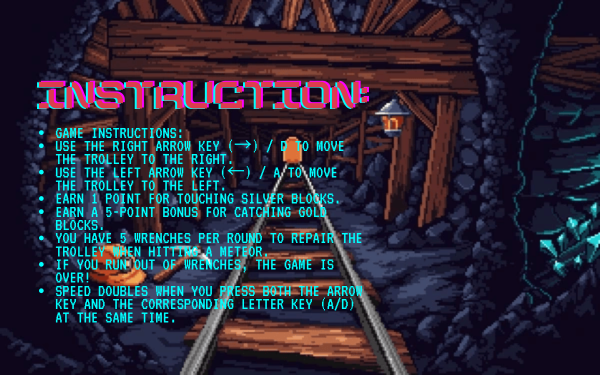
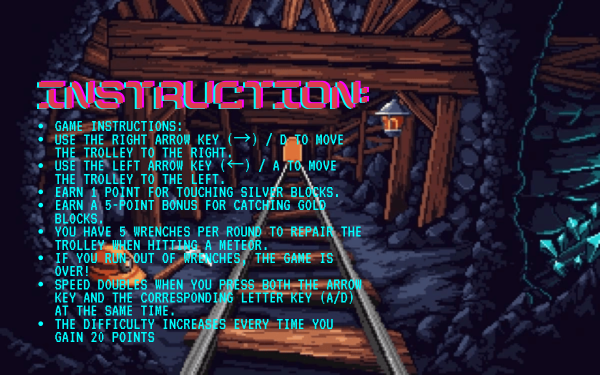
Thêm tính năng độ khó tăng dần mỗi lần có thêm 20 điểm

Changed region(s): [[0.06, 0.3227, 0.6, 0.9093]]

diff --git a/Learning/main.cpp b/Learning/main.cpp
@@ -22,6 +22,7 @@ SDL_Texture* help_btn_texture;
 SDL_Texture* play_again_texture;
 SDL_Texture* pause_continue_texture;
 SDL_Texture* game_paused_texture;
+SDL_Texture* level_up_texture;
 
 SDL_Rect highscore_rect;
 SDL_Rect menu_background_rect;
@@ -33,6 +34,7 @@ SDL_Rect play_btn_rect;
 SDL_Rect help_btn_rect;
 SDL_Rect pause_continue_rect;
 SDL_Rect game_paused_rect;
+SDL_Rect level_up_rect;
 SDL_Rect render_rect_play;
 SDL_Rect render_rect_help;
 SDL_Rect render_rect_pause_continue; //= {0, 0, 22, 34};
@@ -60,7 +62,17 @@ blood_object blood;
 int your_score = 0;
 int high_score = 0;
 int MAX_SCORE = 0;
+
+int white_ene_spam_rate = 30;
+int yellow_ene_spam_rate = 100;
+int boost_ene_spam_rate = 100;
 int BLOOD_REMAIN = 5;
+
+int yellow_enemies_gen_num = 2;
+int white_enemies_gen_num = 2;
+int boost_enemies_gen_num = 2;
+
+
 bool pause_screen = false;
 
 Button play_btn;
@@ -68,6 +80,8 @@ Button help_btn;
 Button pause_continue_btn;
 
 Uint32 handle_bonus_delay_time;
+Uint32 handle_level_up_delay_time;
+
 using namespace std;
 
 int main(int argc, char* argv[]){
@@ -183,21 +197,35 @@ int main(int argc, char* argv[]){
                     player.update();
                     SDL_RenderCopyEx(gRenderer, player.objectTexture, NULL, &player.objectRect, 0, NULL, player.flip);
                     //Render white enemies
-                    if (getRandomNum(0, 30) == 0){
-                        white_ene.gen_new_enemies(2, example_white_enemies, gRenderer, WHITE_ENE_PATH);
+                if (getRandomNum(0, white_ene_spam_rate) == 0){
+                        white_ene.gen_new_enemies(white_enemies_gen_num, example_white_enemies, gRenderer, WHITE_ENE_PATH);
                     }
                     if (white_ene.handle_white_enemies(player) == 1){
                         your_score += 1;
+                        if (your_score % 20 == 0 && your_score!=0){
+                            level_up_animation();
+                            handle_level_up_delay_time = SDL_GetTicks();
+                        }
+//                        if (your_score == 20 * level_up_score_handle){
+//                            level_up_animation();
+//                            handle_level_up_delay_time = SDL_GetTicks();
+//                        }
+                        
+                        
                     }
-                    
                     white_ene.render(example_white_enemies.objectTexture, gRenderer, WHITE_ENE_PATH);
                     //Render boost enemies
-                    if (getRandomNum(0, 100) == 0){
-                        boost_ene.gen_new_enemies(3, example_boost_enemies, gRenderer, BOOST_ENE_PATH);
+                if (getRandomNum(0, boost_ene_spam_rate) == 0){
+                        boost_ene.gen_new_enemies(boost_enemies_gen_num, example_boost_enemies, gRenderer, BOOST_ENE_PATH);
                     }
                     if (boost_ene.handle_boost_enemies(player) == 1){
                         your_score += 5;
                         handle_bonus_delay_time = SDL_GetTicks();
+                        if ((your_score % 20 == 0 || (your_score - 1) % 20 == 0 || (your_score - 2) % 20 == 0 || (your_score - 3) % 20  == 0 || (your_score - 4) % 20 == 0) && your_score!=0){
+                            level_up_animation();
+                            handle_level_up_delay_time = SDL_GetTicks();
+                        }
+                        
                     }
                     if (handle_delay_action(handle_bonus_delay_time, 3) == true){
                         show_bonus_score(player.objectRect.x, player.objectRect.y);
@@ -205,8 +233,8 @@ int main(int argc, char* argv[]){
                     boost_ene.render(example_boost_enemies.objectTexture, gRenderer, BOOST_ENE_PATH);
                     
                     //Render yellow enemies
-                    if (getRandomNum(0, 100) == 0){
-                        yellow_ene.gen_new_enemies(2, example_yellow_enemies, gRenderer, YELLOW_ENE_PATH);
+                if (getRandomNum(0, yellow_ene_spam_rate) == 0){
+                        yellow_ene.gen_new_enemies(yellow_enemies_gen_num, example_yellow_enemies, gRenderer, YELLOW_ENE_PATH);
                     }
                     if (yellow_ene.handle_yellow_enemies(player) == 0){
                         yellow_ene.render(example_white_enemies.objectTexture, gRenderer, YELLOW_ENE_PATH);
@@ -218,8 +246,15 @@ int main(int argc, char* argv[]){
                         blood.draw_blood(gRenderer);
                         //Pause/ continue button
                         SDL_RenderCopy(gRenderer, pause_continue_texture, &render_rect_pause_continue, &pause_continue_rect);
+                        
+                        
+                        if (handle_delay_action(handle_level_up_delay_time, 8) == true){
+                            SDL_RenderCopy(gRenderer, level_up_texture , NULL, &level_up_rect);
+                        }
                         SDL_RenderPresent(gRenderer);
                         SDL_Delay(20);
+                        
+                        
                     }
                     else {
                         BLOOD_REMAIN -= 1;
@@ -229,14 +264,18 @@ int main(int argc, char* argv[]){
                             lose_animation();
                             show_lose_screen(running);
                             white_ene.reset();
-                            //yellow_ene.reset();
+                            //player posision reset
                             player.objectRect.x = PLAYER_INIT_X;
                             player.objectRect.y = PLAYER_INIT_Y;
+                            //level reset
+                            yellow_ene_spam_rate = 100;
+                            yellow_enemies_gen_num = 2;
                             high_score_num_texture = gLoader.load_text(Font_PATH, high_score_num(your_score, MAX_SCORE), gRenderer);
                             high_score_num_rect = gLoader.create_rect(high_score_num_texture, high_score_num_rect.x, high_score_num_rect.y);
                             your_score = 0;
                             BLOOD_REMAIN = 5;
                             blood.reset(gRenderer);
+                            
                         }
                     }
                 }
@@ -469,6 +508,7 @@ void close()
     SDL_DestroyTexture(play_btn_texture);
     SDL_DestroyTexture(help_btn_texture);
     SDL_DestroyTexture(pause_continue_texture);
+    SDL_DestroyTexture(level_up_texture);
     //Destroy window
     SDL_DestroyRenderer( gRenderer );
     SDL_DestroyWindow( gWindow );
@@ -527,7 +567,6 @@ void show_lose_screen(bool &play_Again){
 void show_bonus_score(int x, int y){
     bonus_score_rect = gLoader.create_rect(bonus_score_texture, x, y);
     SDL_RenderCopy(gRenderer, bonus_score_texture, NULL, &bonus_score_rect);
-    SDL_Delay(10);
 }
 void lose_animation(){
     while (player.objectRect.y < MAX_SCREEN_HEIGHT){
@@ -540,4 +579,17 @@ void lose_animation(){
         SDL_Delay(20);
     }
 }
+void level_up_animation(){
 
+    level_up_texture = gLoader.load_text(Font_PATH, "Level up !", gRenderer);
+    level_up_rect = gLoader.create_rect(level_up_texture, MAX_SCREEN_WEIGHT/2, MAX_SCREEN_HEIGHT/2);
+    
+    level_up_rect.x -= level_up_rect.w/2;
+    level_up_rect.y -= level_up_rect.h/2;
+        
+
+    yellow_enemies_gen_num += 5;
+    if (yellow_ene_spam_rate > 0){
+        yellow_ene_spam_rate -= 15;
+    }
+}

diff --git a/Learning/GameBase.h b/Learning/GameBase.h
@@ -18,7 +18,6 @@
 #include <vector>
 #include <fstream>
 
-
 const int MAX_SCREEN_WEIGHT = 800;
 const int MAX_SCREEN_HEIGHT = 600;
 const int HIGH_SCORE_X = MAX_SCREEN_HEIGHT - 90;
@@ -26,11 +25,12 @@ const int HIGH_SCORE_Y = 50;
 const int HIGH_YOUR_SCORE_SPACE = 50;
 const int PLAYER_INIT_X = MAX_SCREEN_WEIGHT/2 - 148/2;
 const int PLAYER_INIT_Y = MAX_SCREEN_HEIGHT - 145 - 158/2 + 5;
+
+//Handle speed
 const int PLAYER_SPEED = 5;
 const int ENEMIES_SPEED = 2;
-const int Enemies_gen_num = 5;
 const int BOOST_ENE_SPEED = 8;
-const int WAVE_SPEED = 3;
+
 // player_hight = 158, player_width = 148
 
 const char GameName[] = "Claim your efforts";

diff --git a/Learning/GameUltis.cpp b/Learning/GameUltis.cpp
@@ -43,9 +43,6 @@ std::string high_score_num(int new_high_score , int & MAX_SCORE){
         
         load_data.open("/Users/huylesmacbook/Library/Developer/Xcode/DerivedData/Learning-cdhyvssvqcagzrfkuqtdpvnnerph/Build/Products/Debug/Learning.app/Contents/Resources/saved_high_score.txt", std::ios::out);
         
-        if (!load_data.is_open()){
-            cout << "Failed to ext high score";
-        }
         load_data << to_string(new_high_score);
         MAX_SCORE = new_high_score;
     }

diff --git a/Learning/GameUltis.h b/Learning/GameUltis.h
@@ -27,5 +27,7 @@ void show_lose_screen(bool &play_Again);
 void show_bonus_score(int x, int y);
 bool handle_delay_action(Uint32 start_time, int time);
 void lose_animation();
+void level_up_animation();
 std::string high_score_num(int new_high_score, int & MAX_SCORE);
+
 #endif /* GameUltis_h */

diff --git a/Learning/GameObject.h b/Learning/GameObject.h
@@ -17,6 +17,7 @@
 static Mix_Chunk* lChunk = nullptr;
 static Mix_Chunk* lChunk_bonus = nullptr;
 
+
 struct object{
     const Uint8 * keystate = SDL_GetKeyboardState(nullptr);
     int x = 0,y = 0;

diff --git a/Learning/GameBase.cpp b/Learning/GameBase.cpp
@@ -3,3 +3,5 @@
 #include "GameBase.h"
 
 
+
+
